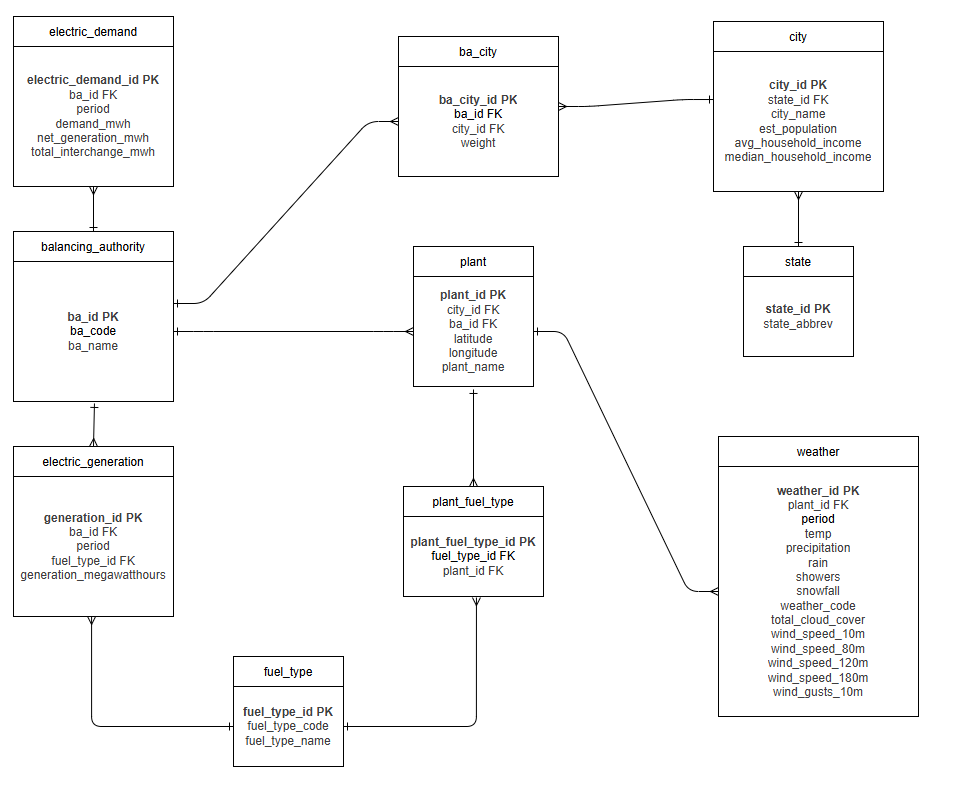
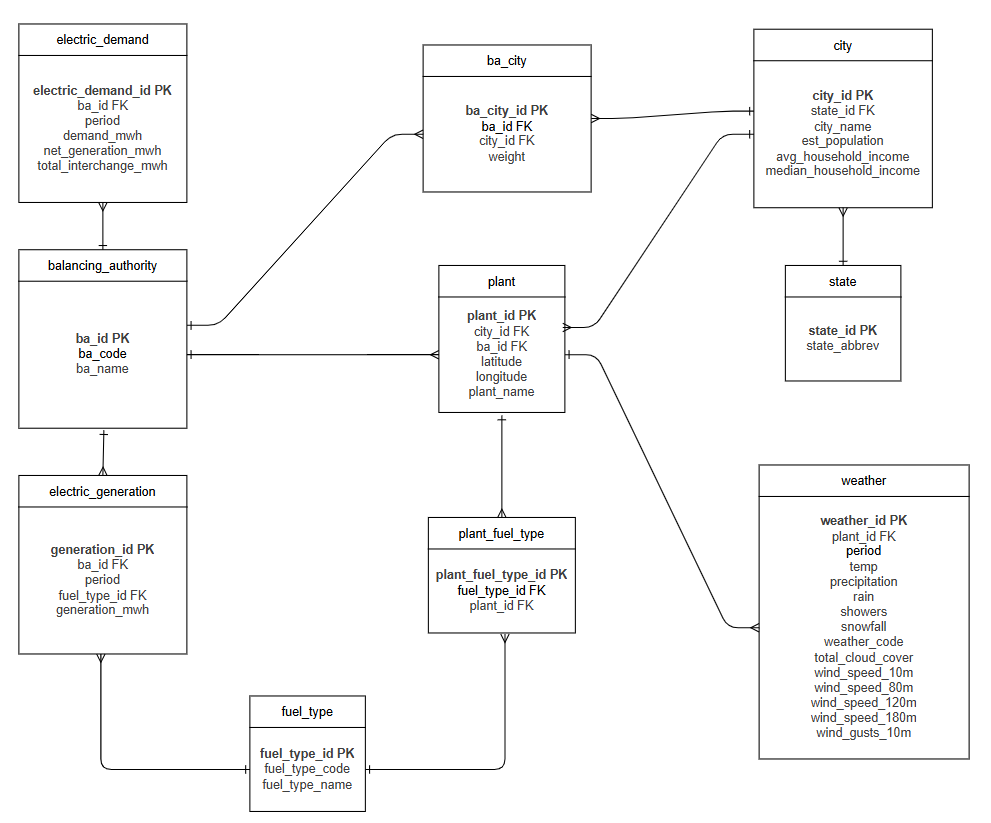
Create schema

diff --git a/plan.md b/plan.md
@@ -81,8 +81,8 @@ Project process is as follows (subject to change)
 ## ETL Prep
 | Task | Est. Time | Act. Time |
 | ---- | --------- | --------- |
-| Create ERD | 1 hr | |
-| Create schema | 1 hr | |
+| Create ERD | 1 hr | 1:30 hrs |
+| Create schema | 1 hr | 45 min |
 | Set up Airflow | 15 min | |
 | Set up DB engine | 10 min | |
 | Total | 2:25 hrs | |
